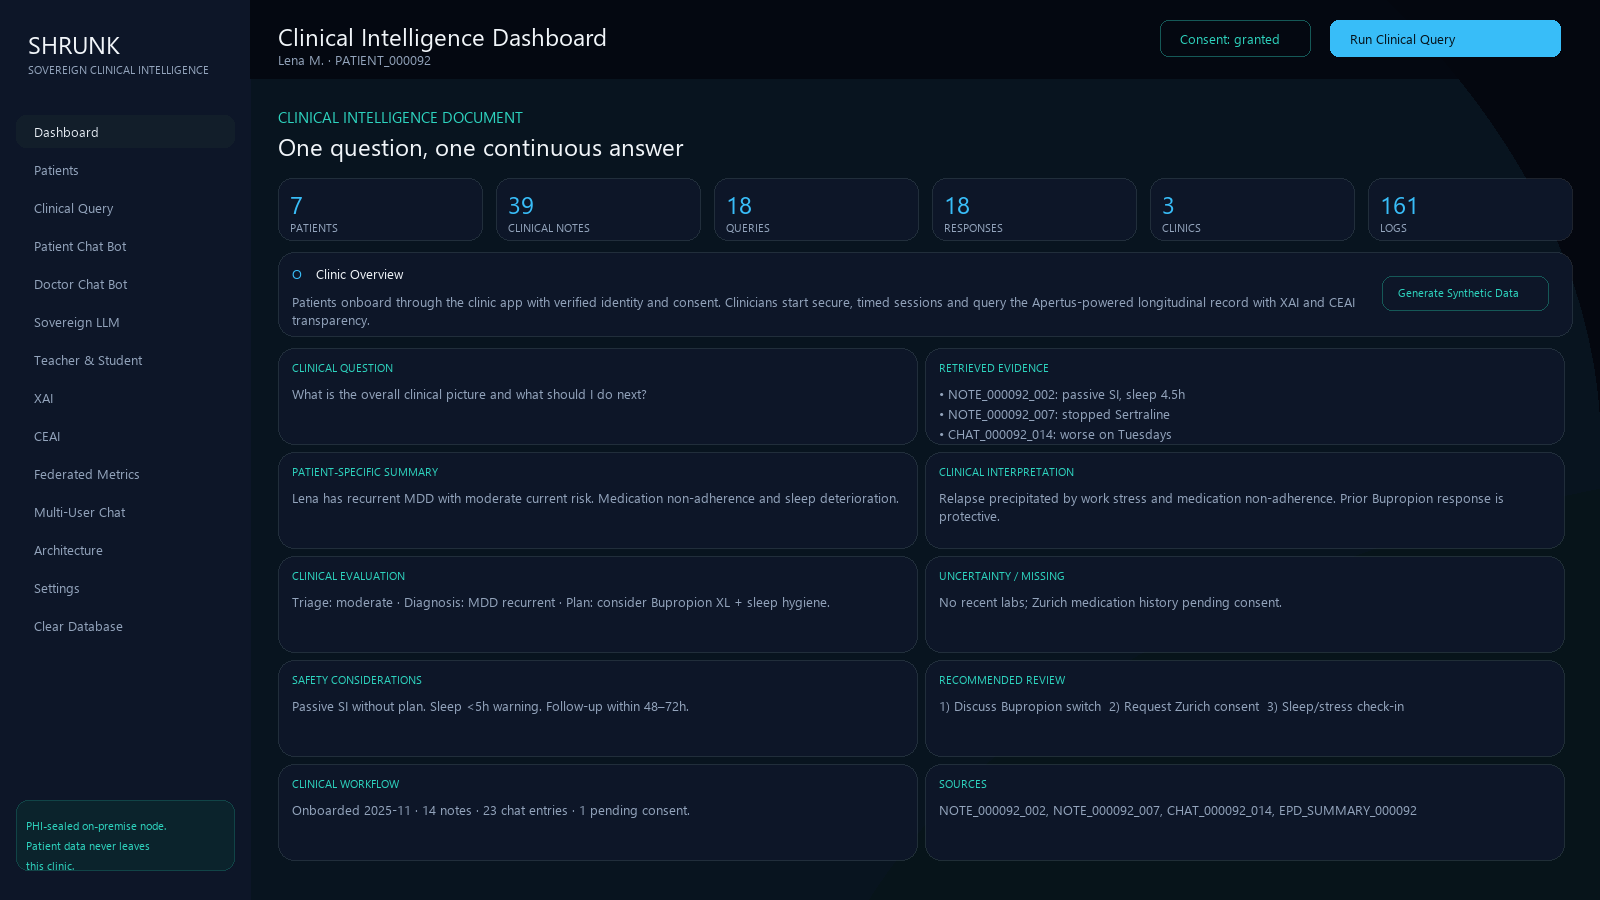
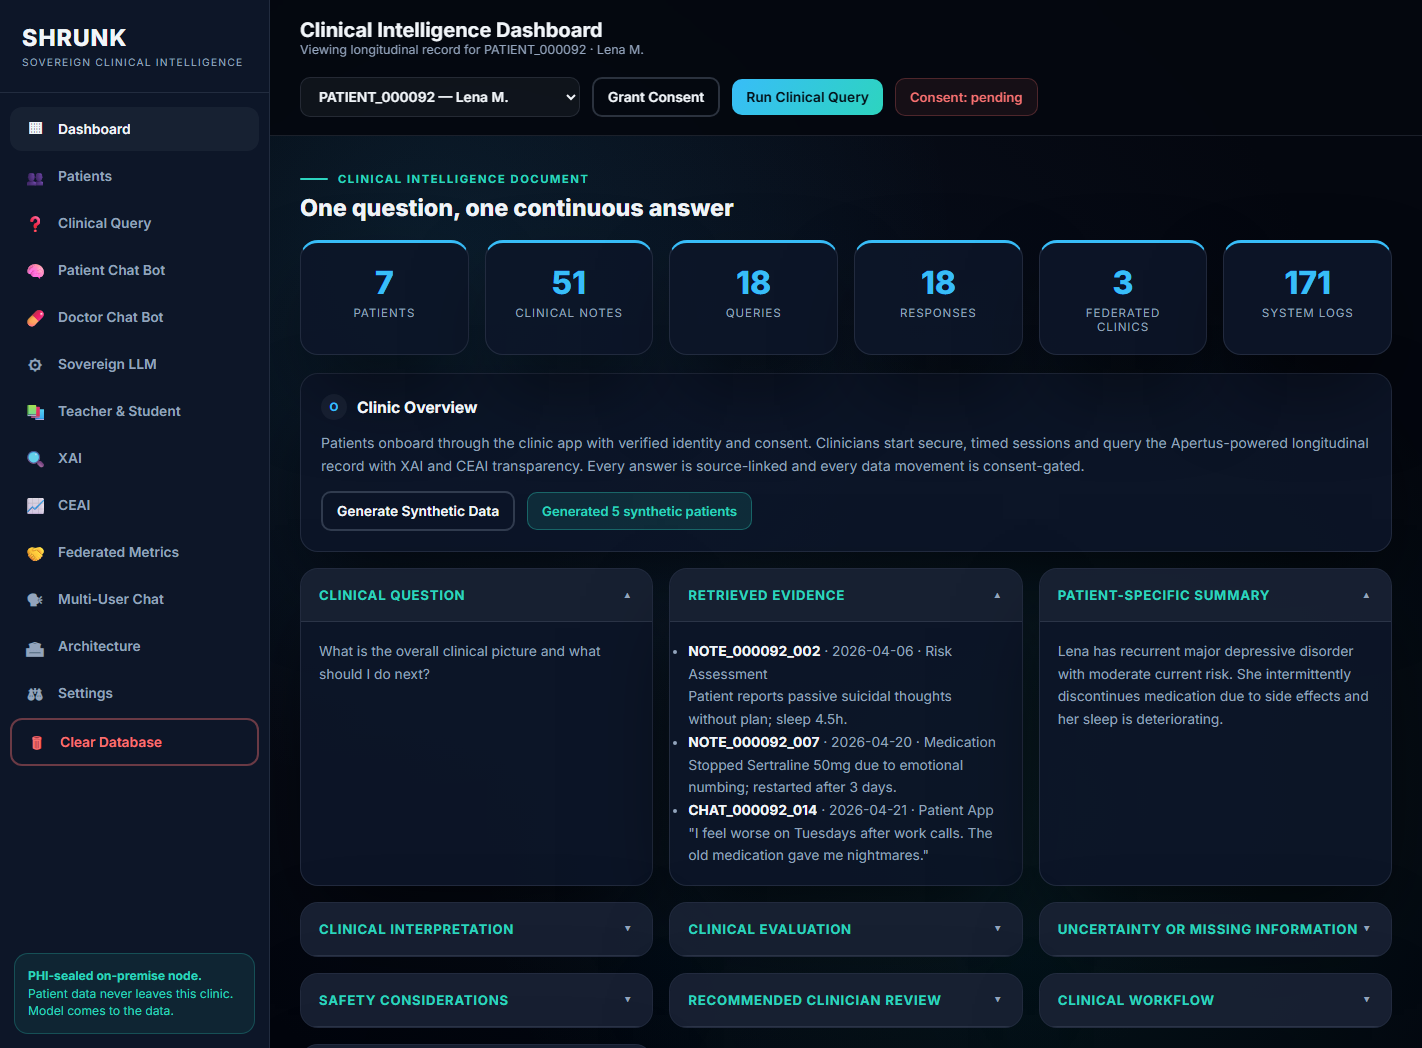
Refresh dashboard screenshot with live synthetic-data generation; update pitch link to v=9; remove stale screenshot generator.

diff --git a/index.html b/index.html
@@ -1580,8 +1580,8 @@ GRID (centers):   left = cx - 800 · top = cy - 450   · world 5600x4300
 
                 <div class="story a" style="--i:2; flex:1; display:flex; flex-direction:column; justify-content:center; align-items:center; gap:18px;">
                     <div style="position:relative; width:100%; max-width:1320px; border-radius:24px; overflow:hidden; border:1px solid var(--line); box-shadow:0 24px 80px rgba(0,0,0,0.5);">
-                        <img src="assets/screenshot_dashboard.png?v=8" alt="SHRUNK clinical intelligence dashboard" style="width:100%; display:block;">
-                        <a href="dashboard/?v=8" target="_blank" rel="noopener"
+                        <img src="assets/screenshot_dashboard.png?v=9" alt="SHRUNK clinical intelligence dashboard" style="width:100%; display:block;">
+                        <a href="dashboard/?v=9" target="_blank" rel="noopener"
                            style="position:absolute; bottom:18px; right:18px; background:linear-gradient(120deg, var(--primary), var(--accent)); color:#04121a; padding:12px 22px; border-radius:12px; font-weight:700; text-decoration:none; font-size:15px;">
                            Open Interactive Dashboard &rarr;
                         </a>
